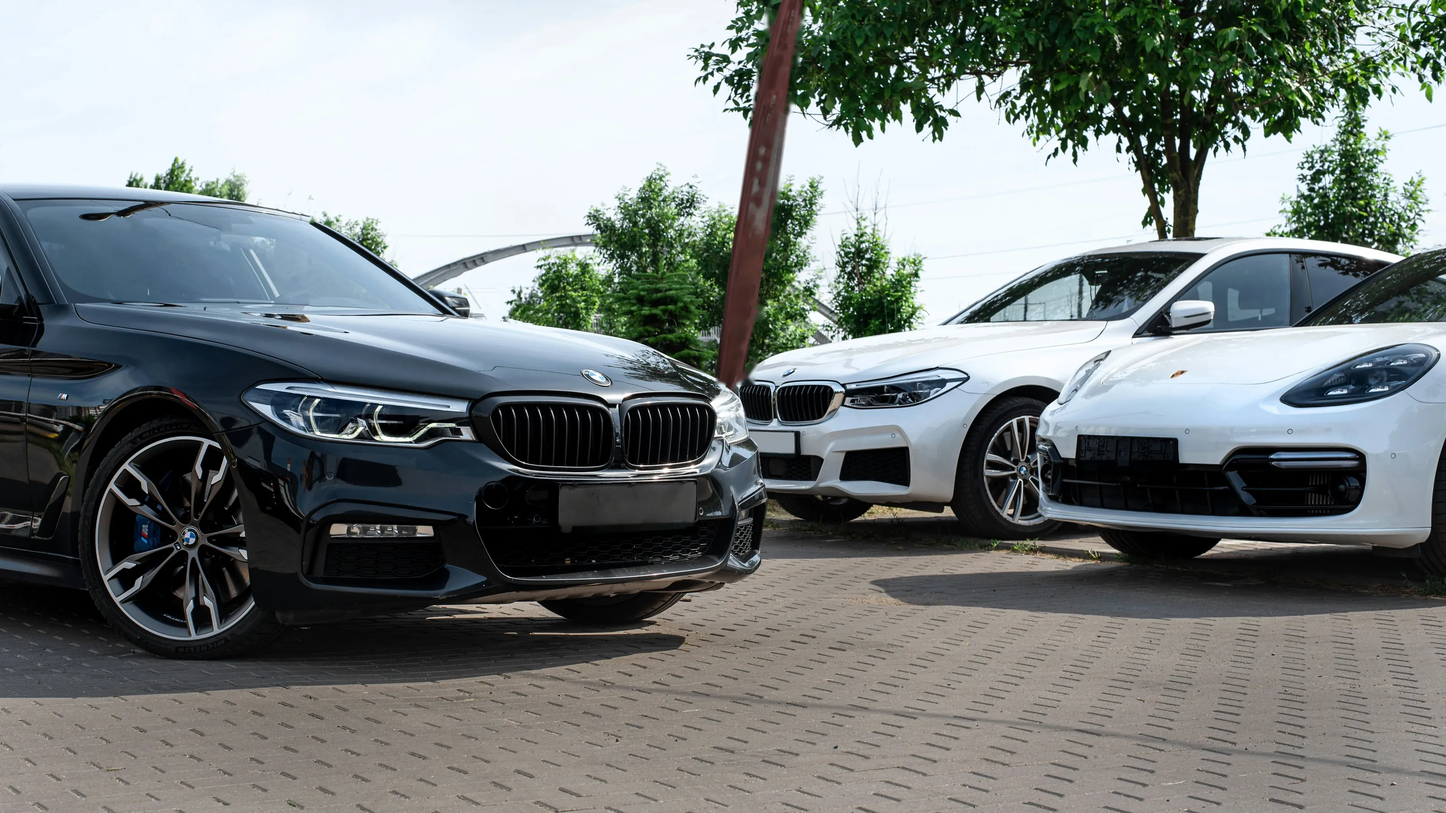
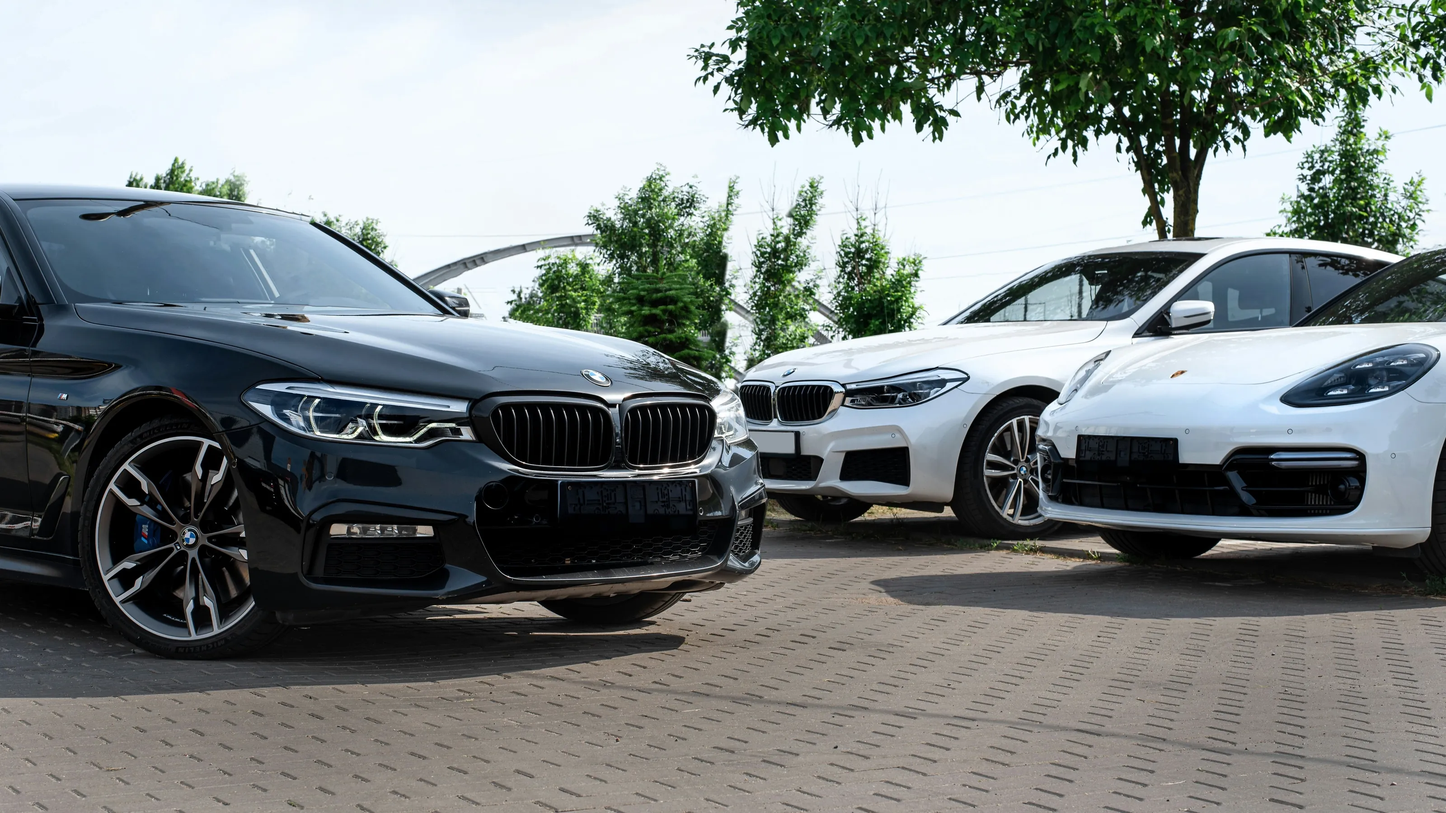
Ratenkredit-Bild: Händlerfahne entfernt, leerer Kennzeichenhalter am BMW, Handy-Ausschnitt auf die Front; Handy-Titelbild kompakt, Aktionsleiste verdeckt keine Buttons mehr
Claude-Session: https://claude.ai/code/session_01J9JEsdcecjFsMGsC3GDkAA

Changed region(s): [[0.4688, 0.0, 0.5938, 0.4978], [0.375, 0.5911, 0.5, 0.6533]]

diff --git a/src/components/Header.tsx b/src/components/Header.tsx
@@ -66,6 +66,8 @@ export default function Header() {
   const [barOn, setBarOn] = useState(false);
   const [mega, setMega] = useState<MegaKey>(null);
   const [sheet, setSheet] = useState(false);
+  // Handy: Aktionsleiste ausblenden, solange die Buttons im Titelbild sichtbar sind (sonst verdeckt sie diese)
+  const [heroBtns, setHeroBtns] = useState(true);
   const [group, setGroup] = useState<MegaKey>(null);
   const [megaTop, setMegaTop] = useState(70);
   const topRef = useRef<HTMLDivElement>(null);
@@ -134,6 +136,18 @@ export default function Header() {
   useEffect(() => {
     document.documentElement.classList.toggle("sheet-open", sheet);
   }, [sheet]);
+
+  useEffect(() => {
+    const el = document.querySelector(".phero-actions");
+    const hasBtn = !!el && [...el.querySelectorAll(".btn")].some((b) => getComputedStyle(b).display !== "none");
+    if (!el || !hasBtn) {
+      setHeroBtns(false);
+      return;
+    }
+    const io = new IntersectionObserver(([e]) => setHeroBtns(e.isIntersecting), { threshold: 0.01 });
+    io.observe(el);
+    return () => io.disconnect();
+  }, [pathname]);
 
   const showBar = barOn;
   const solid = mega !== null && !barOn;
@@ -260,7 +274,7 @@ export default function Header() {
         </div>
       </div>
 
-      <div className={`dock${sheet ? " is-hidden" : ""}`} aria-label="Schnellkontakt">
+      <div className={`dock${sheet || heroBtns ? " is-hidden" : ""}`} aria-label="Schnellkontakt">
         <a className="dock-call" href={site.phoneHref}>
           <IconPhone />
           Anrufen

diff --git a/src/app/globals.css b/src/app/globals.css
@@ -383,6 +383,16 @@ html.js .main-over { margin-top: -100vh; margin-top: -100svh; }
   .phero-actions { width: 100%; min-width: 0; }
   .phero-actions .btn.btn-keep { display: inline-flex; white-space: normal; max-width: 100%; text-align: left; }
   .phero-in > div { min-width: 0; }
+  /* Kompakter Titelbereich, damit Überschrift, Text und Buttons zusammen auf den Bildschirm passen */
+  .phero:not(.is-plain) .crumbs { display: none; }
+  .phero:not(.is-plain) .kicker { margin-top: 0 !important; font-size: 0.88rem; }
+  .phero:not(.is-plain) .phero-title { font-size: 2.05rem; margin-top: 12px !important; }
+  .phero:not(.is-plain) .t-lead { font-size: 1rem; line-height: 1.5; margin-top: 14px; }
+  .phero:not(.is-plain) .phero-in { gap: 22px; padding-top: 120px; padding-bottom: calc(22px + env(safe-area-inset-bottom, 0px)); }
+  /* Ohne eigene Buttons im Titelbild bleibt die Aktionsleiste sichtbar: Inhalt endet darüber */
+  .phero:not(.is-plain):not(:has(.phero-actions .btn-keep)) .phero-in { padding-bottom: calc(92px + env(safe-area-inset-bottom, 0px)); }
+  .phero-actions { gap: 10px; }
+  .phero-actions .btn.btn-keep { min-height: 48px; font-size: 0.95rem; }
   .band { padding-top: 120px; }
 }
 

diff --git a/src/content/images.ts b/src/content/images.ts
@@ -27,7 +27,7 @@ export const images: Record<string, { alt: string; pos?: string }> = {
 };
 
 /** Versionsnummer der Bilder: bei jedem Bildtausch erhöhen, damit Browser keine alte Fassung aus dem Cache zeigen. */
-export const IMG_V = "11";
+export const IMG_V = "12";
 export const img = (file: string) => `/img/${file}?v=${IMG_V}`;
 
 /** Bildangabe aus dem Bearbeitungsbereich normalisieren: "/img/rechner.webp" → Bildschlüssel "rechner" (mit Handy- und Kleinfassungen). */
